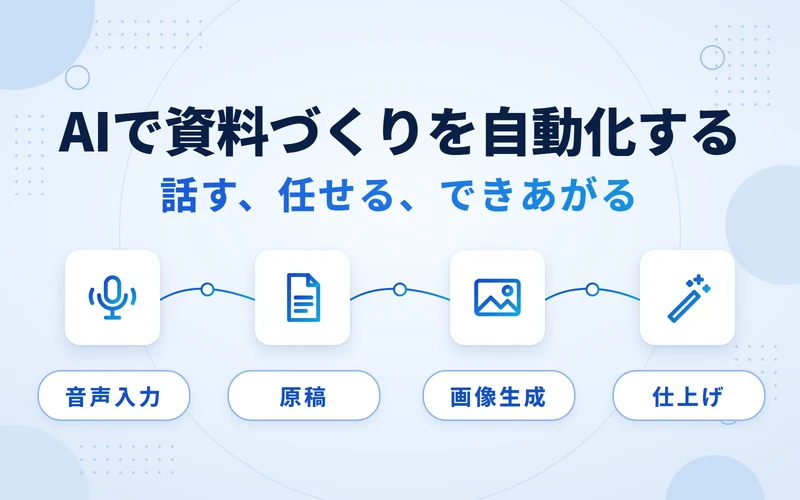
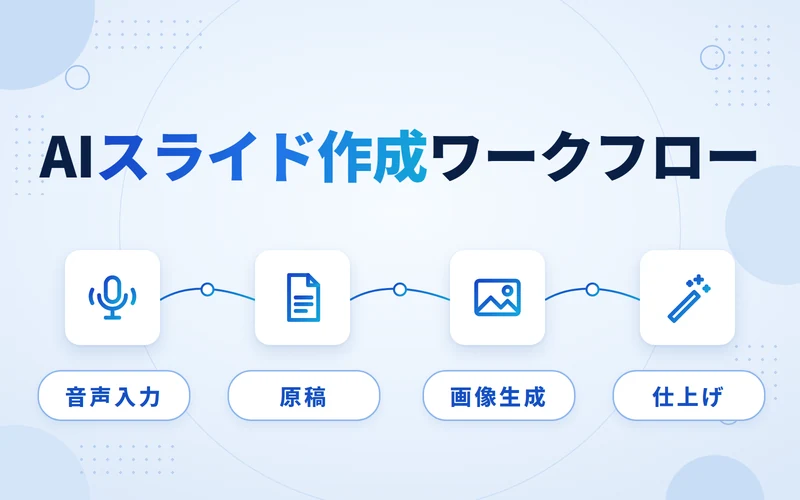
Retitle AI slide thumbnail as AIスライド作成ワークフロー

Changed region(s): [[0.0312, 0.21, 0.9688, 0.45]]

diff --git a/index.html b/index.html
@@ -94,7 +94,7 @@
         </article>
         <article class="work-item">
           <span class="work-number">06 / 08</span>
-          <div class="work-art work-art-slides"><img src="./images/slides-thumb-blue.webp" alt="スライド制作ワークフローの資料表紙" width="800" height="500" loading="lazy"></div>
+          <div class="work-art work-art-slides"><img src="./images/slides-thumb-blue.webp?v=2" alt="スライド制作ワークフローの資料表紙" width="800" height="500" loading="lazy"></div>
           <div class="work-copy"><p class="work-type">PRESENTATION / WORKFLOW</p><h3 data-morph data-warp="5" data-morph-trigger=".work-item">AIスライド制作ワークフロー</h3><p>素材から原稿と画像をつくり、編集できるHTMLやPPTXへ仕上げる制作手順とツール。途中で内容と絵柄を確かめながら進められます。</p></div>
           <span class="work-action work-action-muted">OVERVIEW <span aria-hidden="true">—</span></span>
         </article>
